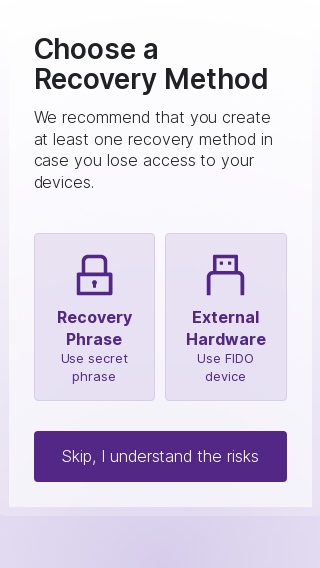
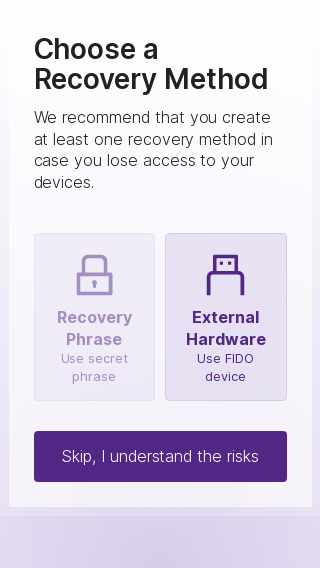
Change recovery picker depending on context (#1210)
* Change recovery picker depending on context

This updates the component we use to pick a new recovery method to show
different text depending on whether we're adding a recovery during
sign in/sign up or from the "manage" page.

The implementation shoehorns the changes in the current project
structure which should be revised a little. In particular, the
`chooseRecoveryMethod` and `setupRecovery` modules should be moved to
`components/`. This will be done separately.

* 🤖 Selenium screenshots auto-update

---------

Changed region(s): [[0.1562, 0.4489, 0.4062, 0.6884]]

diff --git a/src/frontend/src/flows/recovery/chooseRecoveryMechanism.ts b/src/frontend/src/flows/recovery/chooseRecoveryMechanism.ts
@@ -1,22 +1,40 @@
-import { html, render } from "lit-html";
+import { html, render, TemplateResult } from "lit-html";
 import { DeviceData } from "../../../generated/internet_identity_types";
 import { securityKeyIcon, seedPhraseIcon } from "../../components/icons";
 import { mainWindow } from "../../components/mainWindow";
 
-const pageContent = (devices: DeviceData[]) => {
+export type RecoveryMechanism = "securityKey" | "seedPhrase";
+
+const chooseRecoveryMechanismTemplate = ({
+  title,
+  message,
+  cancelText,
+
+  disablePhrase,
+  disableKey,
+  pick,
+  cancel,
+}: {
+  title: TemplateResult;
+  message: TemplateResult;
+  cancelText: TemplateResult;
+
+  disablePhrase: boolean;
+  disableKey: boolean;
+  pick: (recovery: "securityKey" | "seedPhrase") => void;
+  cancel: () => void;
+}) => {
   const pageContentSlot = html`
     <article>
       <hgroup>
-        <h1 class="t-title t-title--main">Choose a Recovery Method</h1>
-        <p class="t-lead">
-          We recommend that you create at least one recovery method in case you
-          lose access to your devices.
-        </p>
+        <h1 class="t-title t-title--main">${title}</h1>
+        <p class="t-lead">${message}</p>
       </hgroup>
       <div class="l-horizontal l-stack">
         <button
-          ?disabled=${hasRecoveryPhrase(devices)}
+          ?disabled=${disablePhrase}
           class="c-button c-button--secondary"
+          @click=${() => pick("seedPhrase")}
           id="seedPhrase"
         >
           <span aria-hidden="true">${seedPhraseIcon}</span>
@@ -24,8 +42,9 @@ const pageContent = (devices: DeviceData[]) => {
           <div class="t-weak">Use secret phrase</div>
         </button>
         <button
-          ?disabled=${hasRecoveryKey(devices)}
+          ?disabled=${disableKey}
           class="c-button c-button--secondary"
+          @click=${() => pick("securityKey")}
           id="securityKey"
         >
           <span aria-hidden="true">${securityKeyIcon}</span>
@@ -34,8 +53,8 @@ const pageContent = (devices: DeviceData[]) => {
         </button>
       </div>
       <div class="l-stack">
-        <button id="skipRecovery" class="c-button">
-          Skip, I understand the risks
+        <button @click=${() => cancel()} id="skipRecovery" class="c-button">
+          ${cancelText}
         </button>
       </div>
     </article>
@@ -48,31 +67,42 @@ const pageContent = (devices: DeviceData[]) => {
   });
 };
 
-export type RecoveryMechanism = "securityKey" | "seedPhrase";
+type TemplateProps = Parameters<typeof chooseRecoveryMechanismTemplate>[0];
+export type ChooseRecoveryProps = Pick<
+  TemplateProps,
+  "title" | "message" | "cancelText"
+>;
 
-export const chooseRecoveryMechanism = async (
-  devices: DeviceData[]
-): Promise<RecoveryMechanism | null> => {
-  const container = document.getElementById("pageContent") as HTMLElement;
-  render(pageContent(devices), container);
-  return init();
+export const chooseRecoveryMechanismPage = (
+  props: TemplateProps,
+  container?: HTMLElement
+): void => {
+  const contain =
+    container ?? (document.getElementById("pageContent") as HTMLElement);
+  render(chooseRecoveryMechanismTemplate(props), contain);
 };
 
-const init = (): Promise<RecoveryMechanism | null> =>
-  new Promise((resolve) => {
-    const securityKey = document.getElementById(
-      "securityKey"
-    ) as HTMLButtonElement;
-    const seedPhrase = document.getElementById(
-      "seedPhrase"
-    ) as HTMLButtonElement;
-    const skipRecovery = document.getElementById(
-      "skipRecovery"
-    ) as HTMLButtonElement;
-    securityKey.onclick = () => resolve("securityKey");
-    seedPhrase.onclick = () => resolve("seedPhrase");
-    skipRecovery.onclick = () => resolve(null);
+export const chooseRecoveryMechanism = async ({
+  devices,
+  title,
+  message,
+  cancelText,
+}: {
+  devices: DeviceData[];
+} & ChooseRecoveryProps): Promise<RecoveryMechanism | null> => {
+  return new Promise((resolve) => {
+    return chooseRecoveryMechanismPage({
+      disablePhrase: hasRecoveryPhrase(devices),
+      disableKey: hasRecoveryKey(devices),
+      pick: resolve,
+      cancel: () => resolve(null),
+
+      title,
+      message,
+      cancelText,
+    });
   });
+};
 
 const hasRecoveryPhrase = (devices: DeviceData[]): boolean =>
   devices.some((device) => device.alias === "Recovery phrase");

diff --git a/src/frontend/src/showcase.ts b/src/frontend/src/showcase.ts
@@ -28,7 +28,7 @@ import { promptDeviceAliasPage } from "./flows/register/alias";
 import { renderConstructing } from "./flows/register/construct";
 import { promptCaptchaPage, badChallenge } from "./flows/register/captcha";
 import { displayUserNumberPage } from "./flows/register/finish";
-import { chooseRecoveryMechanism } from "./flows/recovery/chooseRecoveryMechanism";
+import { chooseRecoveryMechanismPage } from "./flows/recovery/chooseRecoveryMechanism";
 import { displaySingleDeviceWarning } from "./flows/recovery/displaySingleDeviceWarning";
 import { displayManage, authnTemplateManage } from "./flows/manage";
 import { chooseDeviceAddFlow } from "./flows/addDevice/manage";
@@ -215,9 +215,25 @@ const iiPages: Record<string, () => void> = {
         }),
       onContinue: () => console.log("Done"),
     }),
-  chooseRecoveryMechanism: () => chooseRecoveryMechanism([]),
+  chooseRecoveryMechanism: () =>
+    chooseRecoveryMechanismPage({
+      disablePhrase: true,
+      disableKey: false,
+      pick: (recovery) => console.log("picked:", recovery),
+      cancel: () => console.log("canceled"),
+      title: html`Choose a Recovery Method`,
+      message: html`We recommend that you create at least one recovery method in
+      case you lose access to your devices.`,
+      cancelText: html`Skip, I understand the risks`,
+    }),
   displaySingleDeviceWarning: () =>
-    displaySingleDeviceWarning(userNumber, dummyConnection),
+    displaySingleDeviceWarning(
+      userNumber,
+      dummyConnection,
+      (_anchor, _conn) => {
+        return Promise.resolve();
+      }
+    ),
   displayManage: () =>
     displayManage(userNumber, dummyConnection, [
       ...simpleDevices,
@@ -269,7 +285,10 @@ const iiPages: Record<string, () => void> = {
       back: () => console.log("back"),
     }),
   loader: () => withLoader(() => new Promise(() => renderConstructing())),
-  displaySafariWarning: () => displaySafariWarning(userNumber, dummyConnection),
+  displaySafariWarning: () =>
+    displaySafariWarning(userNumber, dummyConnection, (_anchor, _conn) => {
+      return Promise.resolve();
+    }),
   displaySeedPhrase: () => displaySeedPhrase(recoveryPhraseText),
   displayError: () =>
     displayError({

diff --git a/src/frontend/src/flows/recovery/recoveryWizard.ts b/src/frontend/src/flows/recovery/recoveryWizard.ts
@@ -3,6 +3,7 @@ import { setupRecovery } from "./setupRecovery";
 import { displaySingleDeviceWarning } from "./displaySingleDeviceWarning";
 import { displaySafariWarning } from "./displaySafariWarning";
 import { iOSOrSafari } from "../../utils/utils";
+import { html } from "lit-html";
 
 export const recoveryWizard = async (
   userNumber: bigint,
@@ -19,7 +20,7 @@ const recoveryWizardSafari = async (
   // Here, we let the user know about the quirks of Safari. The menu will take
   // them to the device picker, if they choose to.
   if ((await connection.lookupRecovery(userNumber)).length === 0) {
-    await displaySafariWarning(userNumber, connection);
+    await displaySafariWarning(userNumber, connection, setupRecoveryWizard);
   }
 };
 
@@ -32,9 +33,27 @@ const recoveryWizardDefault = async (
   // we display a big warning with full explanation about the risks of having a
   // single authentication device and not having a recovery device.
   if ((await connection.lookupRecovery(userNumber)).length === 0) {
-    await setupRecovery(userNumber, connection);
+    await setupRecoveryWizard(userNumber, connection);
     if ((await connection.lookupRecovery(userNumber)).length === 0) {
-      await displaySingleDeviceWarning(userNumber, connection);
+      await displaySingleDeviceWarning(
+        userNumber,
+        connection,
+        setupRecoveryWizard
+      );
     }
   }
 };
+
+const setupRecoveryWizard = (
+  userNumber: bigint,
+  connection: AuthenticatedConnection
+) =>
+  setupRecovery({
+    userNumber,
+    connection,
+    title: html`Choose a Recovery Method`,
+
+    message: html`We recommend that you create at least one recovery method in
+    case you lose access to your devices.`,
+    cancelText: html`Skip, I understand the risks`,
+  });

diff --git a/src/frontend/src/flows/recovery/setupRecovery.ts b/src/frontend/src/flows/recovery/setupRecovery.ts
@@ -9,15 +9,27 @@ import {
   AuthenticatedConnection,
 } from "../../utils/iiConnection";
 import { unknownToString } from "../../utils/utils";
+import type { ChooseRecoveryProps } from "./chooseRecoveryMechanism";
 import { chooseRecoveryMechanism } from "./chooseRecoveryMechanism";
 import { displaySeedPhrase } from "./displaySeedPhrase";
 
-export const setupRecovery = async (
-  userNumber: bigint,
-  connection: AuthenticatedConnection
-): Promise<void> => {
+export const setupRecovery = async ({
+  userNumber,
+  connection,
+  title,
+  message,
+  cancelText,
+}: {
+  userNumber: bigint;
+  connection: AuthenticatedConnection;
+} & ChooseRecoveryProps): Promise<void> => {
   const devices = await connection.lookupAll(userNumber);
-  const recoveryMechanism = await chooseRecoveryMechanism(devices);
+  const recoveryMechanism = await chooseRecoveryMechanism({
+    devices,
+    title,
+    message,
+    cancelText,
+  });
   if (recoveryMechanism === null) {
     return;
   }
@@ -39,7 +51,13 @@ export const setupRecovery = async (
             detail: unknownToString(err, "Unknown error"),
             primaryButton: "Try a different method",
           });
-          return setupRecovery(userNumber, connection);
+          return setupRecovery({
+            userNumber,
+            connection,
+            title,
+            message,
+            cancelText,
+          });
         }
 
         return await withLoader(() =>

diff --git a/src/frontend/src/flows/recovery/displaySafariWarning.ts b/src/frontend/src/flows/recovery/displaySafariWarning.ts
@@ -1,6 +1,5 @@
 import { html, render } from "lit-html";
 import { warnBox } from "../../components/warnBox";
-import { setupRecovery } from "./setupRecovery";
 import { AuthenticatedConnection } from "../../utils/iiConnection";
 import { mainWindow } from "../../components/mainWindow";
 
@@ -39,16 +38,24 @@ const pageContent = () => {
 
 export const displaySafariWarning = async (
   userNumber: bigint,
-  connection: AuthenticatedConnection
+  connection: AuthenticatedConnection,
+  setupRecovery: (
+    userNumber: bigint,
+    connection: AuthenticatedConnection
+  ) => Promise<void>
 ): Promise<void> => {
   const container = document.getElementById("pageContent") as HTMLElement;
   render(pageContent(), container);
-  return init(userNumber, connection);
+  return init(userNumber, connection, setupRecovery);
 };
 
 const init = (
   userNumber: bigint,
-  connection: AuthenticatedConnection
+  connection: AuthenticatedConnection,
+  setupRecovery: (
+    userNumber: bigint,
+    connection: AuthenticatedConnection
+  ) => Promise<void>
 ): Promise<void> =>
   new Promise((resolve) => {
     const displayWarningAddRecovery = document.getElementById(

diff --git a/src/frontend/src/flows/recovery/displaySingleDeviceWarning.ts b/src/frontend/src/flows/recovery/displaySingleDeviceWarning.ts
@@ -1,5 +1,4 @@
 import { html, render } from "lit-html";
-import { setupRecovery } from "./setupRecovery";
 import { AuthenticatedConnection } from "../../utils/iiConnection";
 import { mainWindow } from "../../components/mainWindow";
 
@@ -34,16 +33,24 @@ const pageContent = () => {
 
 export const displaySingleDeviceWarning = async (
   userNumber: bigint,
-  connection: AuthenticatedConnection
+  connection: AuthenticatedConnection,
+  setupRecovery: (
+    userNumber: bigint,
+    connection: AuthenticatedConnection
+  ) => Promise<void>
 ): Promise<void> => {
   const container = document.getElementById("pageContent") as HTMLElement;
   render(pageContent(), container);
-  return init(userNumber, connection);
+  return init(userNumber, connection, setupRecovery);
 };
 
 const init = (
   userNumber: bigint,
-  connection: AuthenticatedConnection
+  connection: AuthenticatedConnection,
+  setupRecovery: (
+    userNumber: bigint,
+    connection: AuthenticatedConnection
+  ) => Promise<void>
 ): Promise<void> =>
   new Promise((resolve) => {
     const displayWarningAddRecovery = document.getElementById(

diff --git a/src/frontend/src/flows/manage/index.ts b/src/frontend/src/flows/manage/index.ts
@@ -305,7 +305,7 @@ export const displayManage = (
       }
     },
     onAddRecovery: async () => {
-      await setupRecovery(userNumber, connection);
+      await addNewRecovery(userNumber, connection);
       renderManage(userNumber, connection);
     },
   });
@@ -373,3 +373,16 @@ const hasRecoveryDevice = (devices: DeviceData[]): boolean =>
 const unknownError = (): Error => {
   return new Error("Unknown error");
 };
+
+const addNewRecovery = (
+  userNumber: bigint,
+  connection: AuthenticatedConnection
+) =>
+  setupRecovery({
+    userNumber,
+    connection,
+    title: html`Add a Recovery Method`,
+    message: html`Use a FIDO device or connected phone to create an additional
+    recovery method.`,
+    cancelText: html`Back`,
+  });
